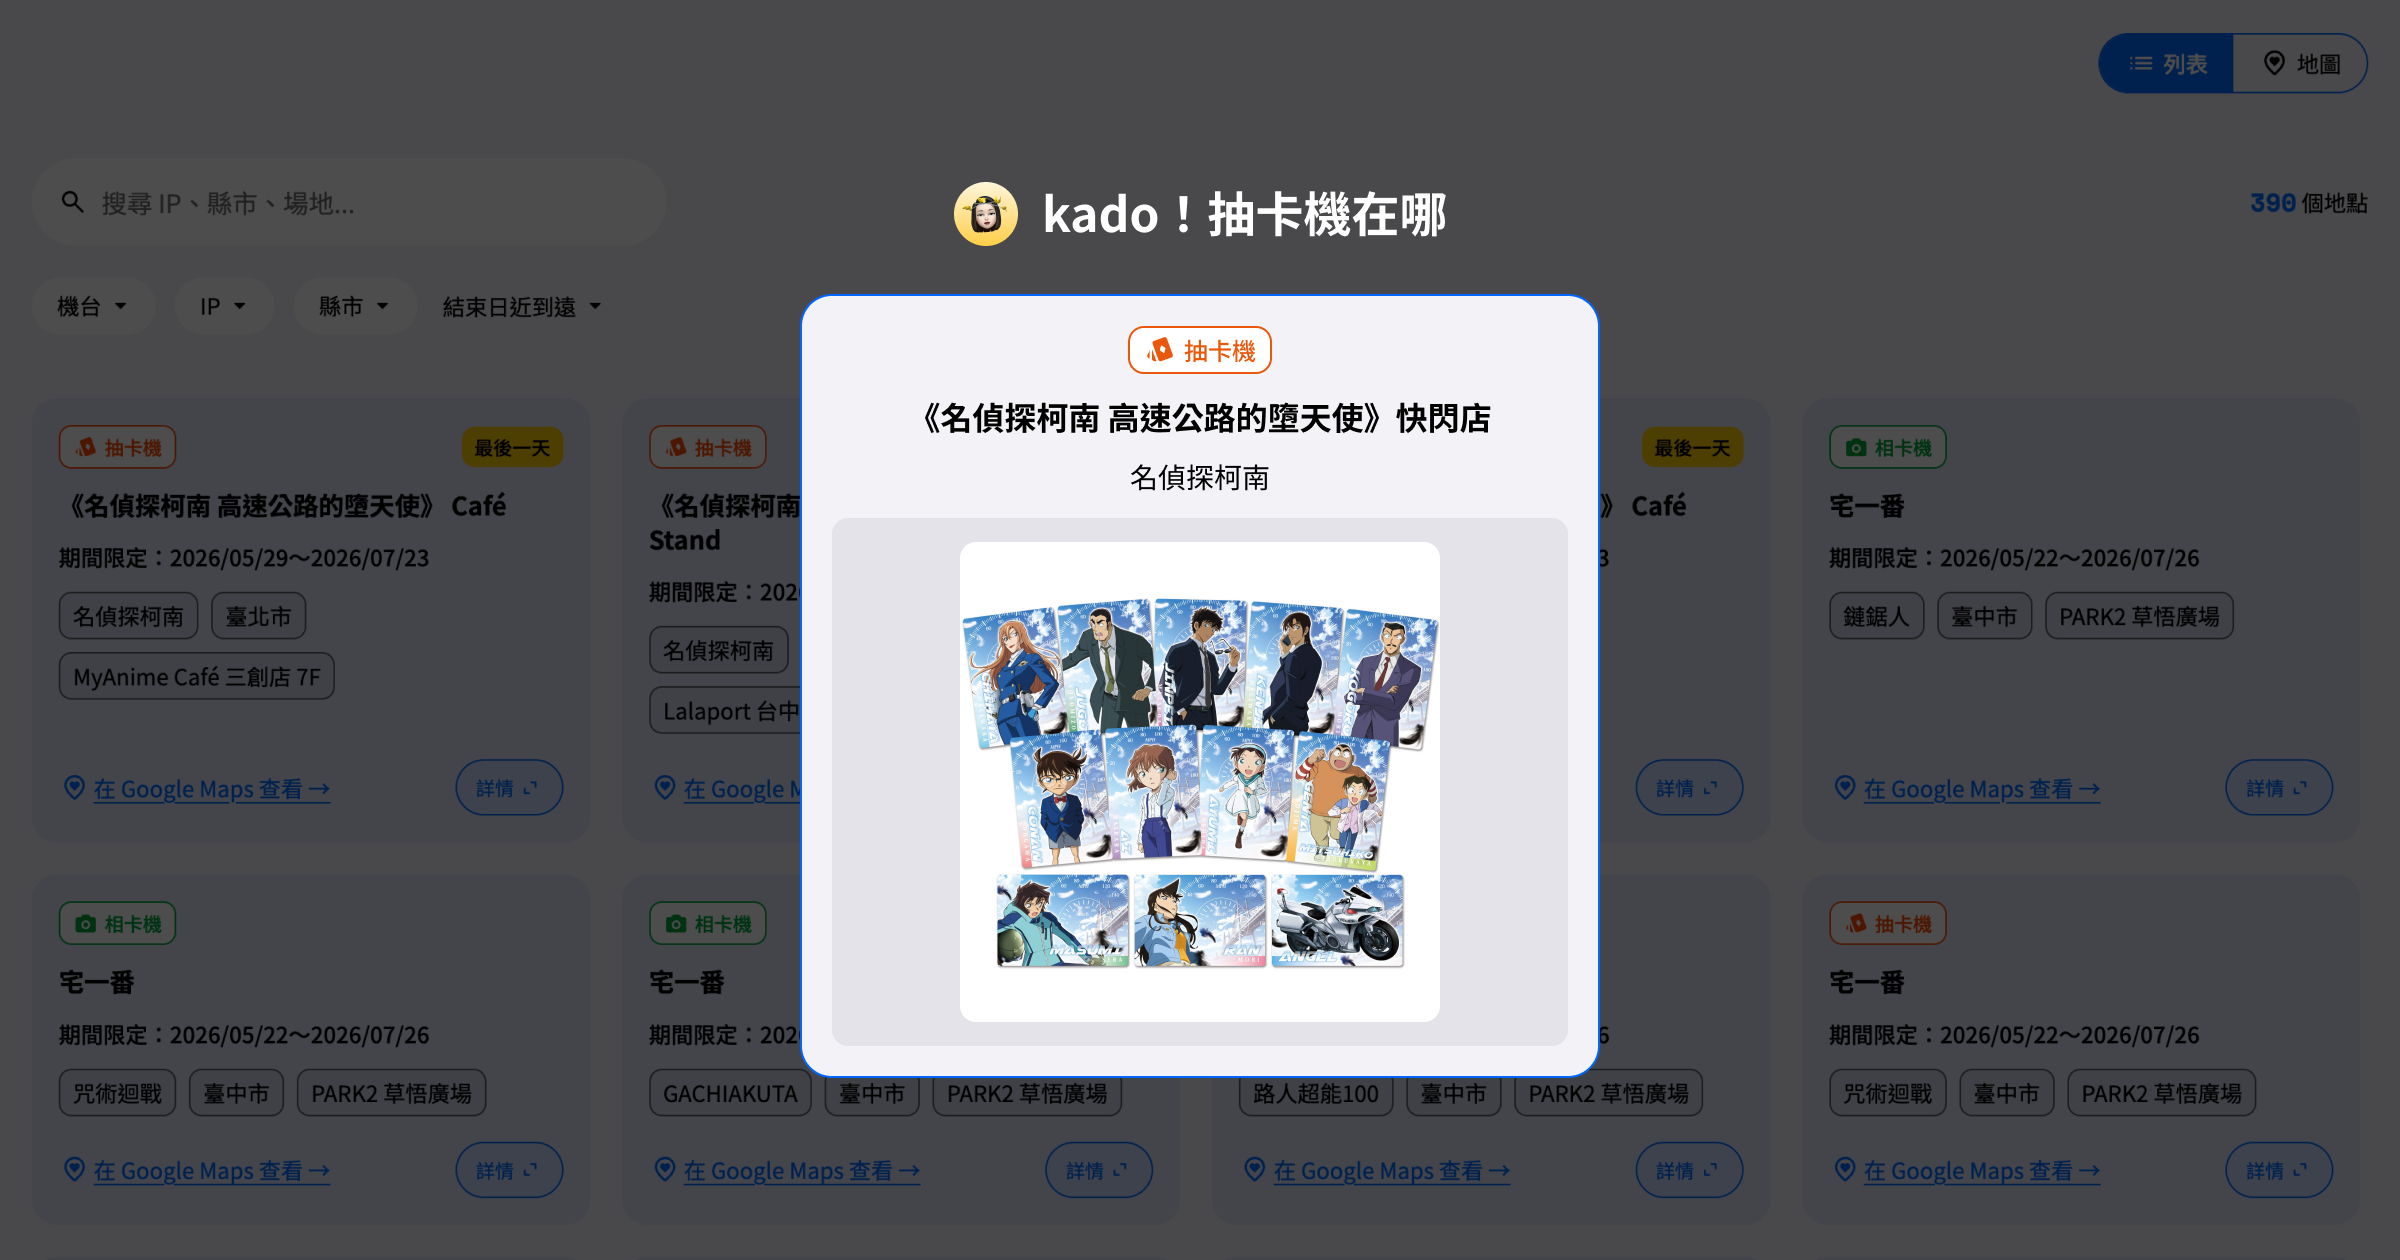
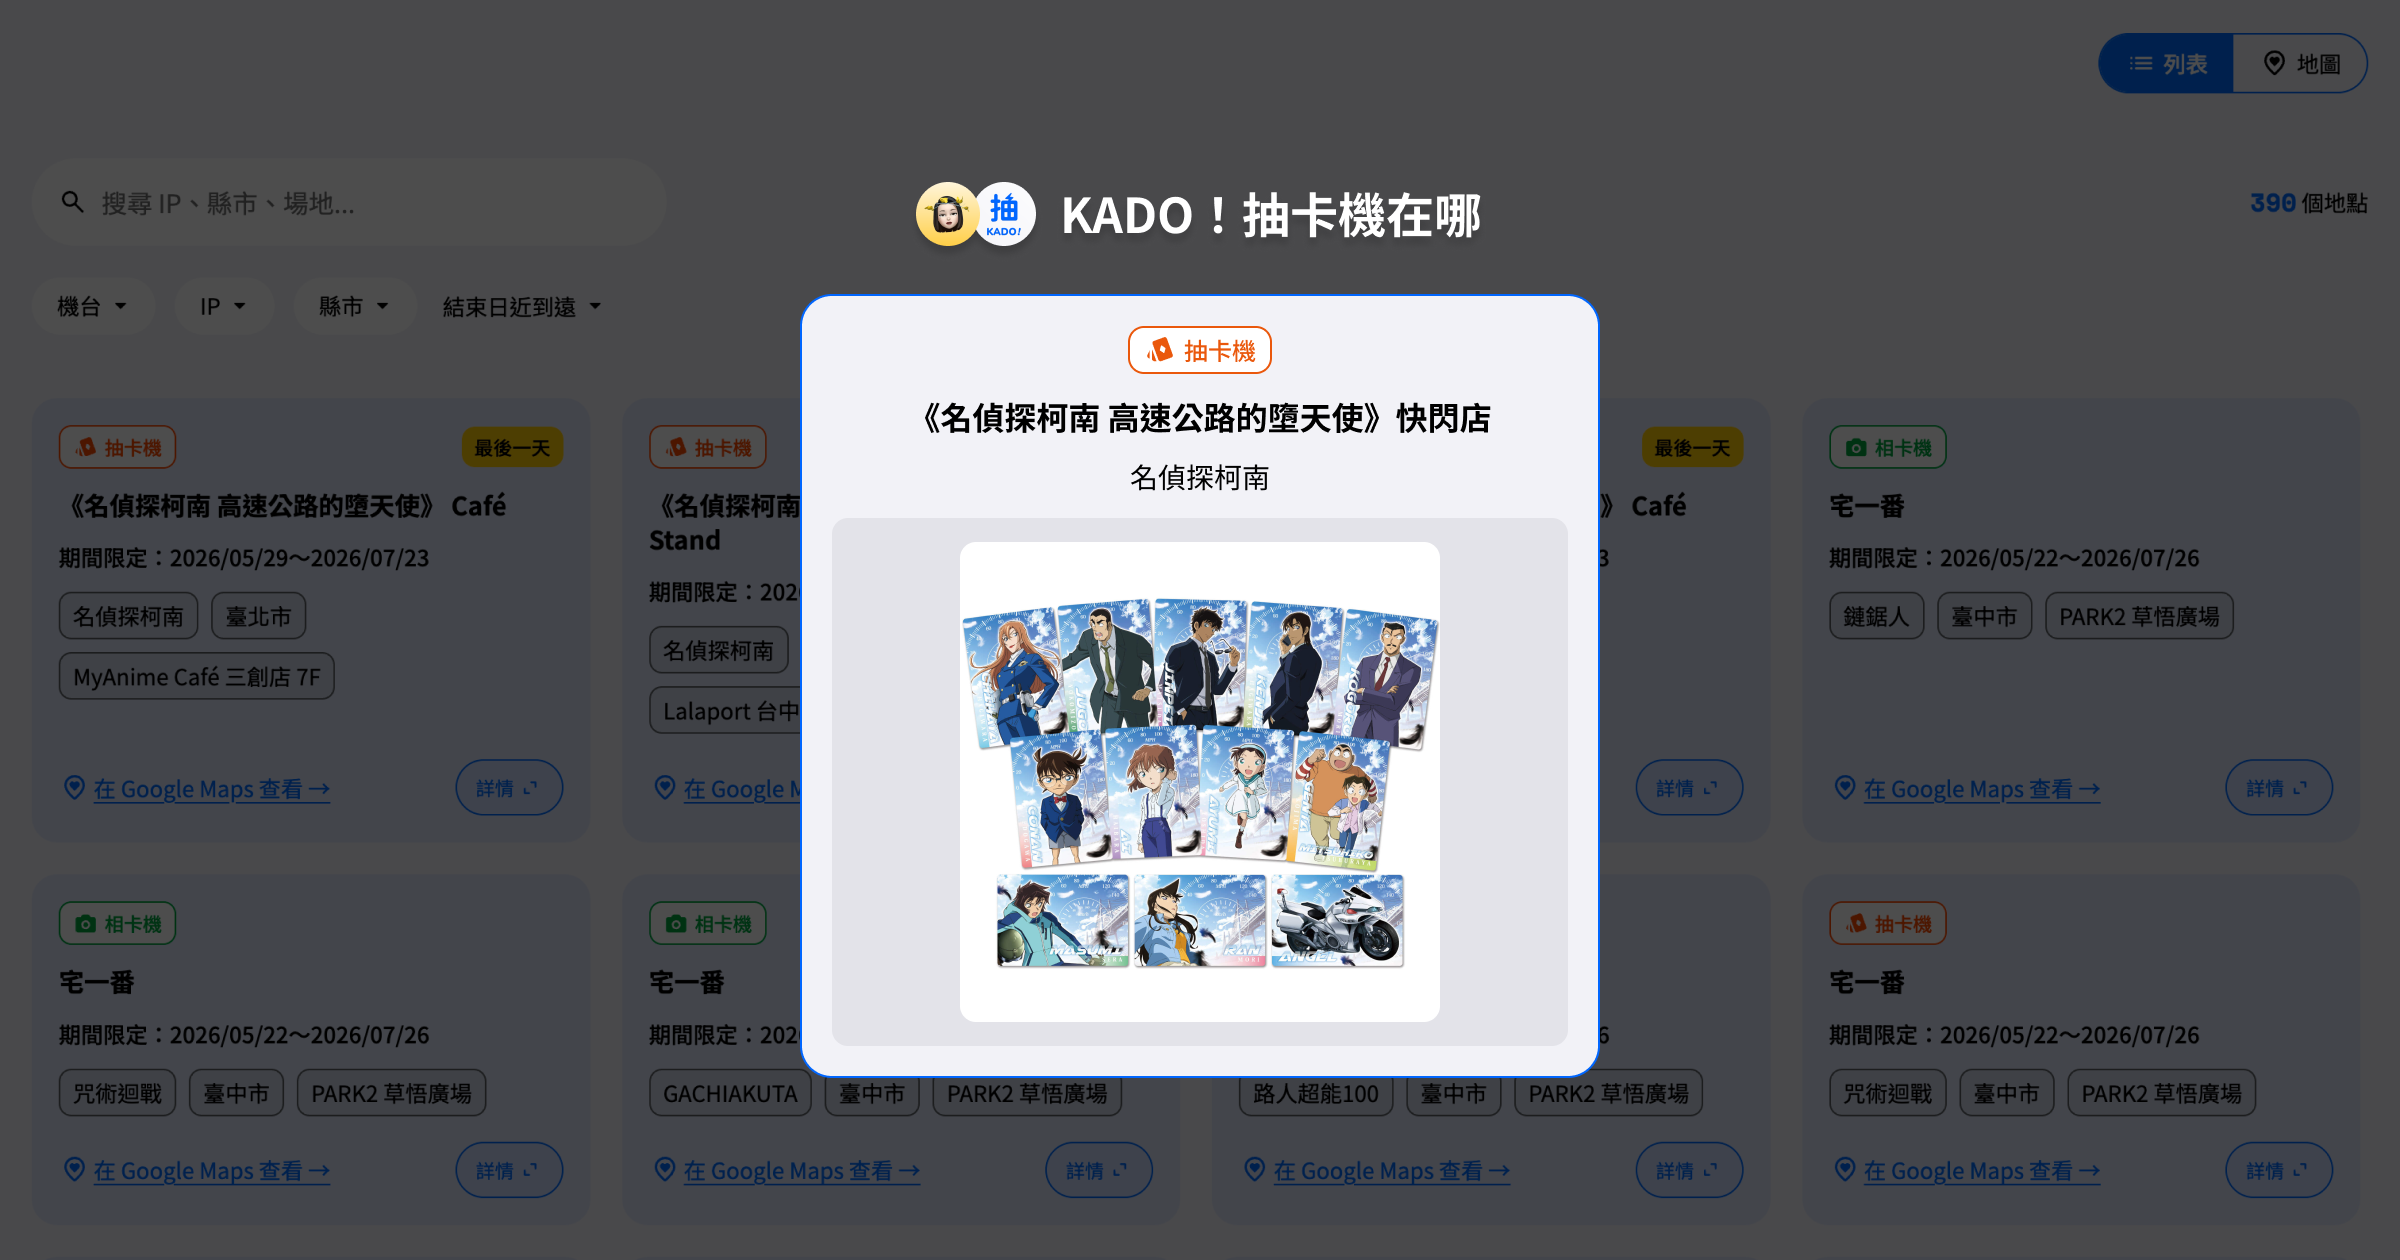
refactor: replace third-party visitor counter with self-hosted Cloudflare Worker + KV - Add Cloudflare Worker (worker.js) backed by KV for visitor counting - Update visitor.js to call the new Worker endpoint - Add wrangler.toml for Worker deployment config - Update sw.js no-cache allowlist to the ne

Changed region(s): [[0.375, 0.1238, 0.625, 0.2167]]

diff --git a/worker.js b/worker.js
@@ -1,0 +1,49 @@
+// =============================================
+// 👣 訪客計數 Worker（Cloudflare Workers + KV）
+// 完全自己控制的訪客計數服務，不依賴任何第三方 API。
+// =============================================
+
+export default {
+  async fetch(request, env) {
+    // 允許跨網域呼叫（你的網站前端會用瀏覽器直接打這支 API）
+    const corsHeaders = {
+      "Access-Control-Allow-Origin": "*",
+      "Access-Control-Allow-Methods": "GET, OPTIONS",
+      "Access-Control-Allow-Headers": "Content-Type",
+    };
+
+    // 瀏覽器的預檢請求，直接回空回應
+    if (request.method === "OPTIONS") {
+      return new Response(null, { headers: corsHeaders });
+    }
+
+    const url = new URL(request.url);
+
+    // /reset?value=2000&secret=xxx  → 手動把數字設成特定值（僅限你自己使用）
+    if (url.pathname === "/reset") {
+      const providedSecret = url.searchParams.get("secret");
+      if (providedSecret !== env.RESET_SECRET) {
+        return new Response(
+          JSON.stringify({ error: "unauthorized" }),
+          { status: 401, headers: { ...corsHeaders, "Content-Type": "application/json" } }
+        );
+      }
+      const value = parseInt(url.searchParams.get("value") ?? "0", 10);
+      await env.VISITOR_KV.put("count", String(value));
+      return new Response(
+        JSON.stringify({ count: value }),
+        { headers: { ...corsHeaders, "Content-Type": "application/json" } }
+      );
+    }
+
+    // /  → 累加 +1 並回傳目前數字（正常訪客計數用這個）
+    const current = parseInt((await env.VISITOR_KV.get("count")) ?? "0", 10);
+    const next = current + 1;
+    await env.VISITOR_KV.put("count", String(next));
+
+    return new Response(
+      JSON.stringify({ count: next }),
+      { headers: { ...corsHeaders, "Content-Type": "application/json" } }
+    );
+  },
+};

diff --git a/sw.js b/sw.js
@@ -7,7 +7,7 @@
 // 版本號 bump 時（CACHE_VERSION 改掉），install/activate 會自動清掉舊快取，
 // 不需要手動處理使用者端的快取殘留。
 
-const CACHE_VERSION = 'v29';
+const CACHE_VERSION = 'v30';
 const SHELL_CACHE = `cardradar-shell-${CACHE_VERSION}`;
 const DATA_CACHE = `cardradar-data-${CACHE_VERSION}`;
 const IMAGE_CACHE = `cardradar-images-${CACHE_VERSION}`;
@@ -66,7 +66,7 @@ function isImageRequest(url) {
 // 以及自己的 /api/ serverless functions，例如 api/share.js 會依 id 動態回傳不同
 // 內容，被 SW 快取住會讓某些機台的分享卡片內容卡在舊的版本）
 function isNoCacheRequest(url) {
-  return url.hostname === 'api.counterapi.dev' || url.pathname.startsWith('/api/');
+  return url.hostname === 'visitor-counter.gillsponge-601.workers.dev' || url.pathname.startsWith('/api/');
 }
 
 async function networkFirst(request, cacheName) {

diff --git a/js/visitor.js b/js/visitor.js
@@ -1,10 +1,13 @@
 // =============================================
 // 👣 訪客計數
 // 完全獨立的小功能：只讀寫自己的兩個 DOM 元素，不跟其他模組共享任何狀態。
+// 使用自己架設的 Cloudflare Worker + KV，不依賴任何第三方訪客計數服務。
 // =============================================
 async function loadVisitorCount() {
   try {
-    const res = await fetch('https://api.counterapi.dev/v1/cardradartw/visits/up');
+    // TODO: 部署 Worker 後，把下面網址換成你自己的 Worker 網址
+    // 例如 https://visitor-counter.你的子網域.workers.dev/
+    const res = await fetch('https://visitor-counter.gillsponge-601.workers.dev/');
     const data = await res.json();
     document.getElementById('visitorCount').textContent = data.count.toLocaleString('zh-TW');
     document.getElementById('visitorBanner').style.display = 'flex';

diff --git a/index.html b/index.html
@@ -174,7 +174,7 @@
       <div class="changelog-header">
         <div class="changelog-header-text">
           <span class="changelog-title">更新日誌</span>
-          <span class="changelog-author">made with ♥ by @yywggwyy</span>
+          <span class="changelog-author">made with ♥ by @kadonogill</span>
         </div>
         <button class="changelog-close" id="changelogClose" aria-label="關閉"><svg xmlns="http://www.w3.org/2000/svg" width="20" height="20" viewBox="0 0 24 24" fill="none" stroke="currentColor" stroke-width="2" stroke-linecap="round" stroke-linejoin="round"><path d="M18 6 6 18"/><path d="m6 6 12 12"/></svg></button>
       </div>

diff --git a/js/main.js b/js/main.js
@@ -472,7 +472,7 @@ import { initTopBarScroll, resetTopBarScrollState } from './scroll.js';
       // GA: share_click
       gtag('event', 'share_click', { machine_id: id, source: source || 'unknown', device: getDeviceType() });
       if (navigator.share) {
-        navigator.share({ title: 'kado！抽卡機在哪r', url });
+        navigator.share({ title: 'KADO！抽卡機在哪', url });
       } else {
         navigator.clipboard.writeText(url).then(() => showToast('已複製連結！'));
       }
